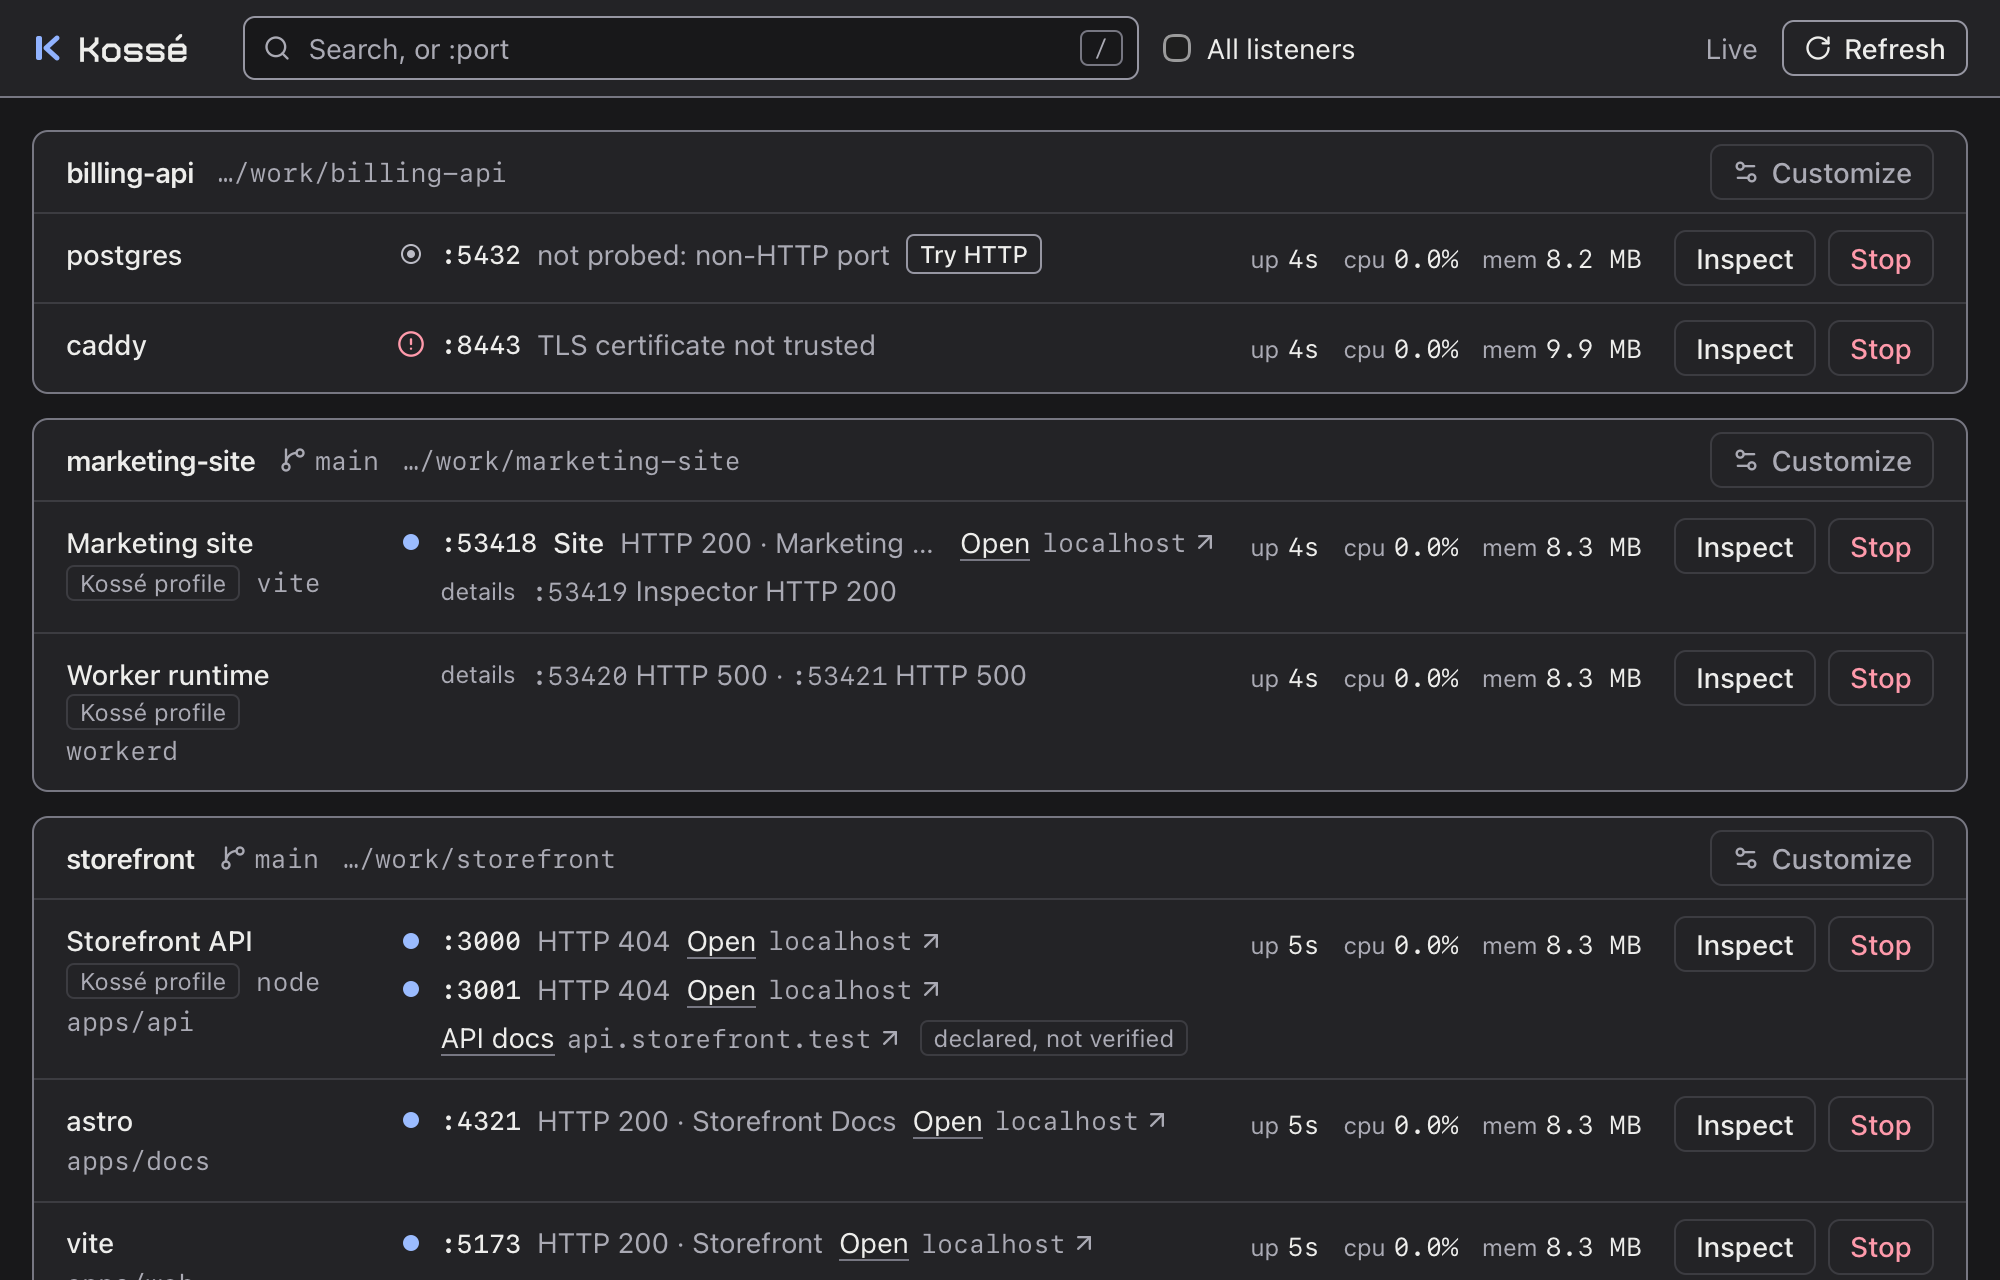
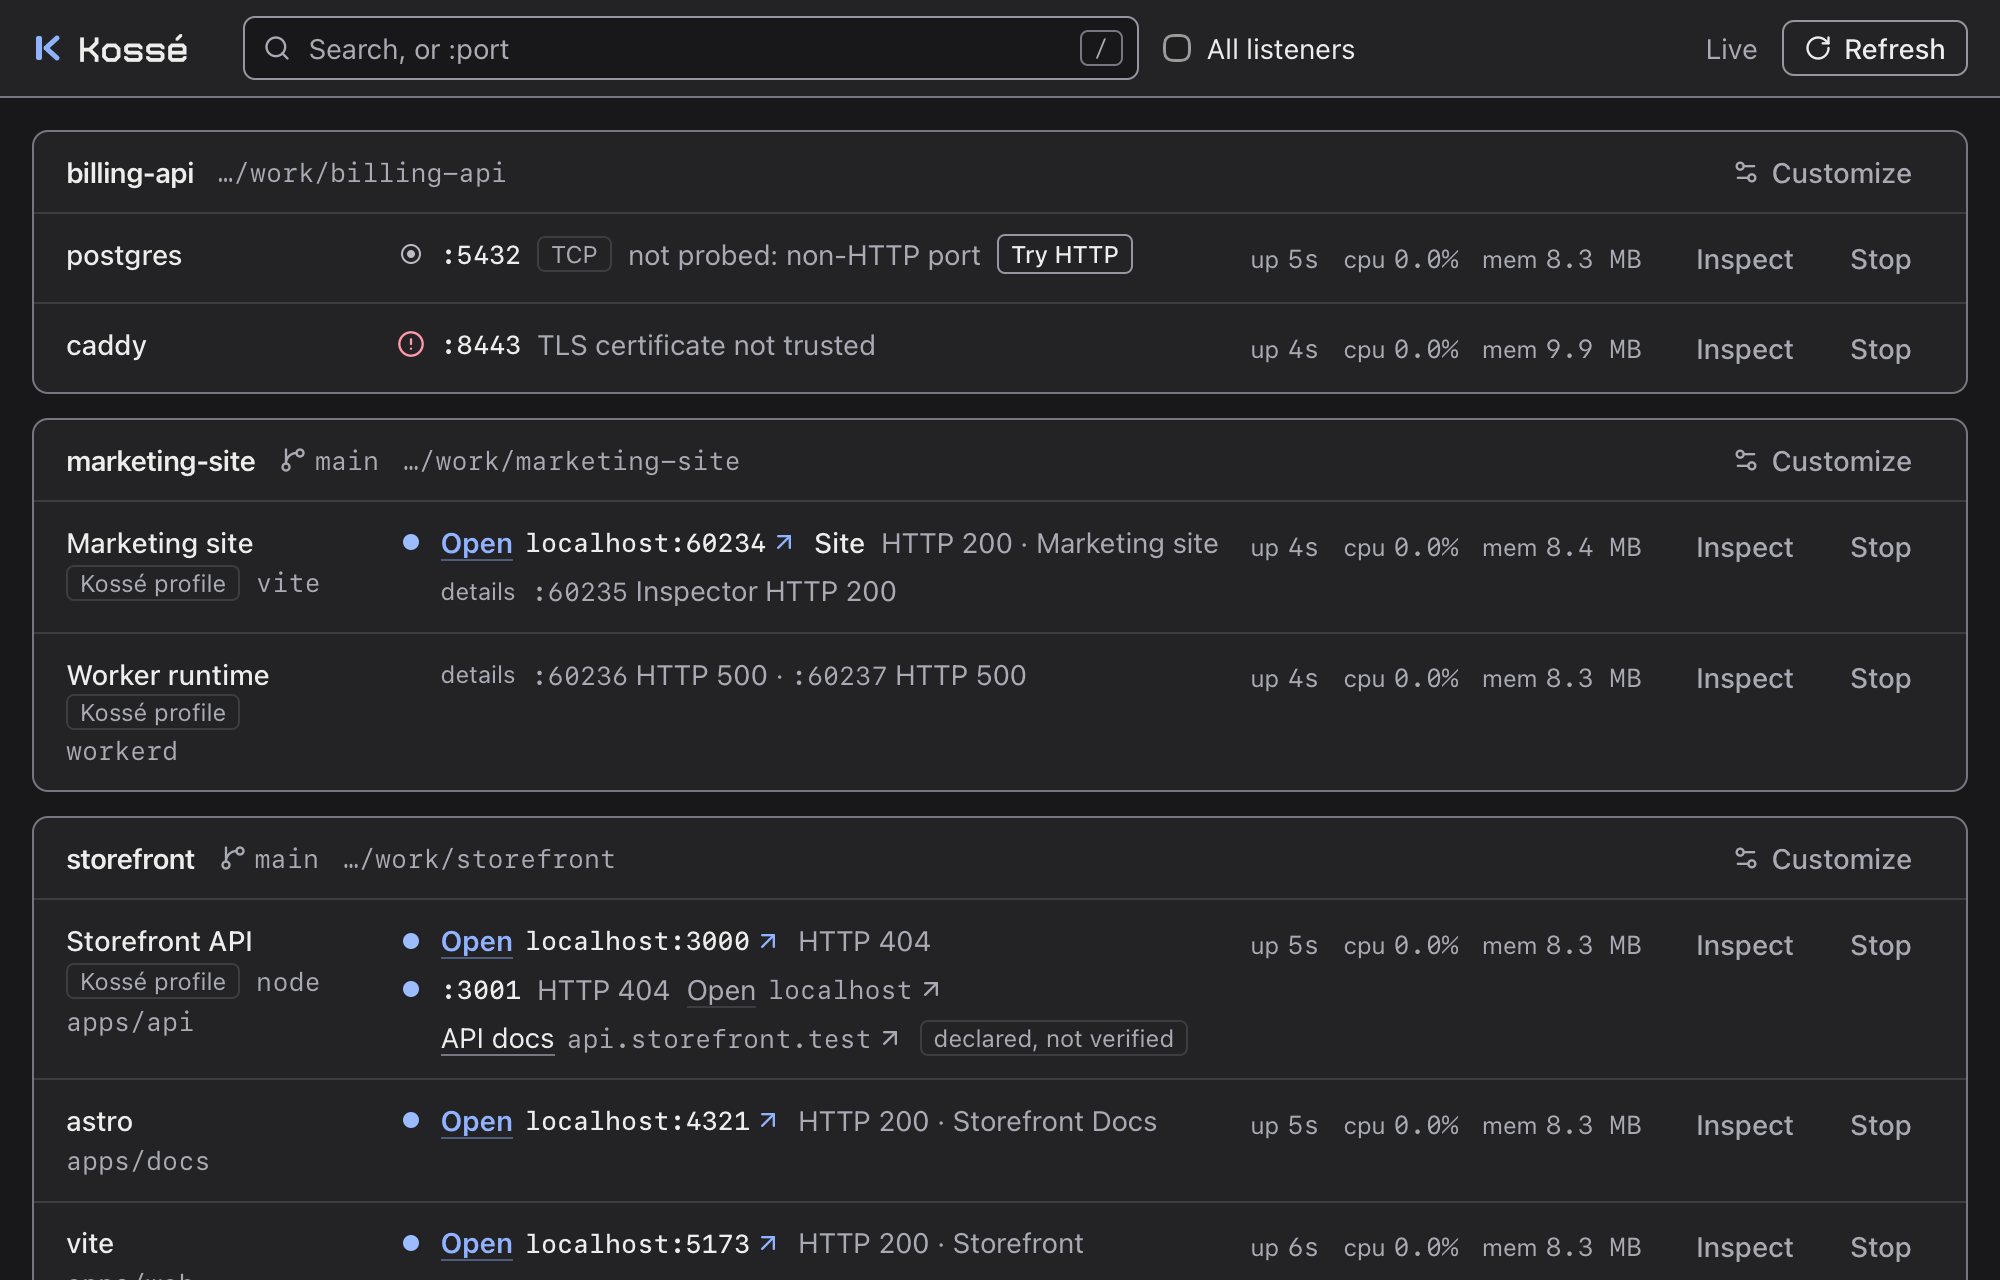
docs: evidence and screenshots for the dashboard hierarchy pass

diff --git a/docs/evidence/ui-hierarchy.md b/docs/evidence/ui-hierarchy.md
@@ -1,0 +1,62 @@
+# UI pass: what to open, what is secondary, what is not web
+
+Recorded 2026-10-30 on macOS, Apple silicon, on branch `dashboard-hierarchy` (cut from `endpoint-roles`, S21). Dashboard-only: no Rust, contract or tray change.
+
+## The problem, from the user's goal
+
+The owner: "I'm having a hard time seeing what is the main url to check vs less important vs database and things like that." The dashboard's second most frequent job (blueprint/product.md, primary job 3) is to open the service you are working on without remembering its port. Before this pass every endpoint line had the same weight: a marker, `:port`, the HTTP result with the page title, then an underlined `Open` after the title, so the link landed at a different x on every line, after text that truncates. A service with three answering ports offered three equal Opens, a declared local link to the same URL offered a fourth, the eye went to the one red icon (an internal port) and to the bordered Inspect / Stop buttons and ink metrics on every row, and a database line looked like a web line that had not been checked.
+
+## Hierarchy
+
+Per service row, three tiers, all from observed facts and declared display tiers only:
+
+1. **The open target.** Among the service's summary endpoints that answered HTTP (the launch targets of `Service::launch_endpoints`, the same set the tray and `kosse url` choose from), one is drawn first and strongest: the accent `Open` label with the full `localhost:<port>` in ink mono and the arrow, at the start of the endpoint column, so it sits at the same x on every row. When several answered, the one that served a page (a response with a title) comes first, then a status below 400, then the lowest port. This is ordering and emphasis only: every answering summary endpoint keeps its own Open, nothing is labelled "main", and the tray and CLI keep their meaning (several answering endpoints remain several Open items, and `kosse url` stays ambiguous).
+2. **Other summary endpoints.** One line each, below the target: marker, `:port`, name, HTTP status without the page title (the title is on the target and in Inspect), a quiet `Open` link when it answered, Try HTTP when allowed. A failure on a summary endpoint keeps the failed marker: it is a launch target.
+3. **Details endpoints** stay on the one muted `details` line (S21), never with a marker, an Open or the failed marker.
+
+The kind cue is a quiet `TCP` tag on an endpoint that is known not to speak HTTP: skipped as a known non-HTTP port or process, or probed and found not HTTP. Every endpoint is TCP (`Endpoint.protocol`), so the tag is a fact; it is shown only where HTTP is ruled out, so it reads as "not web" without naming a guess such as "database". Unchecked or failed endpoints get no tag (unknown stays unknown).
+
+A declared link whose URL equals the URL of an endpoint that already offers Open is not repeated on the row; Inspect lists every declared link with its provenance. Declared links to other URLs stay as before.
+
+Metrics and actions recede: metric values in `ink-muted`, Inspect, Stop and Customize as muted, borderless text at rest (hover brings back the border, hover and keyboard focus bring back Stop's `danger` text). The accent on the row is then only the open target.
+
+No project-level "main URL": no observed fact makes one service of a project its entry point, and the tray has no such item.
+
+Unchanged: the Shape Rule markers, honesty wording (any status is reachable HTTP; failures say what happened), keyboard row focus, the narrow stacked layout, light and dark, reduced motion, `safeLink` for every href (`OutLink`), no inline style.
+
+## What changed
+
+- `web/src/model/endpoints.ts`: `openTarget` (the ranking above). `web/src/model/probe.ts`: `brief` (the result without the page title) and `notHttp` (HTTP ruled out). `web/src/model/links.ts`: `sameLink`.
+- `web/src/components/project-card.tsx`: the target line first, other summary lines quieter, the duplicate declared link folded, `TCP` tag, muted metrics; `link.tsx`: `target` and `quiet` tones; `ui.ts`: borderless `rowAction` / `rowDanger` (also Customize in the card header).
+- `e2e/support/world.ts`: the marketing site's central profile declares `Local site` at the Site endpoint's own URL, so the fold is exercised by Playwright, the window and the screenshots.
+- `web/DESIGN.md`: the row order, the open link tones, the row actions and the fold.
+
+## Tests (each guards a rule)
+
+- `model/endpoints.test.ts`: a 404 on a lower port never outranks the page; a 200 outranks a 500; between equals the lowest port; no target when no summary endpoint answered. `TCP` only where HTTP is ruled out (pending, closed, unattributed and answering endpoints never get it). The brief line drops the page title only.
+- `model/links.test.ts`: `sameLink` folds `http://localhost:3000` into `…:3000/`, never a different path, host spelling (`127.0.0.1`) or a non-HTTP URL.
+- Playwright: of the API's two 404 ports, exactly one `[data-target]`, the lowest, drawn first, and both keep an Open; postgres carries `TCP`, caddy (TLS failure) does not; the site row has one link although its profile declares `Local site` at the same URL, and Inspect still lists `Local site`.
+
+## Commands run
+
+| Command                                                      | Result                                                                                                        |
+| ------------------------------------------------------------ | ------------------------------------------------------------------------------------------------------------- |
+| `bun run app -- start/eval/shot/resize/theme/click/key/stop` | see below                                                                                                     |
+| `bun run --cwd web test`                                     | 52 passed                                                                                                     |
+| `bun run check`                                              | exit 0: fmt, oxlint, clippy, tsc, Vitest 52/52, budget `53.02 kB of 55.00 kB`, nextest 274/274, release build |
+| `bun run test:e2e`                                           | 32 passed, 2 skipped (screenshot spec on Chromium)                                                            |
+| `bun run test:window`                                        | 69 passed, 0 failed (screen unlocked)                                                                         |
+| `bun run screenshots`                                        | regenerated `docs/screenshots/` (fixture data only), looked at all five                                       |
+| `impeccable detect` on the changed components                | no findings                                                                                                   |
+
+## Real window (`bun run app`)
+
+Before and after screenshots were taken at 1180x780 (whole fixture world, and filtered to `marketing-site`, light and dark) and at 560x780 (light and dark); they are not committed because the unfiltered view shows the machine's own listeners. After: each service with an answering summary endpoint leads with the accent `Open localhost:<port>`; the API's second port reads `:3001 HTTP 404 Open localhost` in muted text; the site row shows no separate `Local site` line; postgres and the queue worker carry `TCP`; Inspect / Stop / Customize are muted text until hovered. At 560 px: no horizontal scroll (`scrollWidth 560 = innerWidth 560`), the row stacks and the actions sit on the column edge (a fix made after the first narrow screenshot showed them inset by the borderless padding).
+
+Real AppKit clicks: Open on the marketing site's target handed `http://localhost:<site port>/` to the captured opener and the window stayed on `/`; Inspect opened the sheet with both endpoints and their tiers; Stop on postgres opened the confirmation naming PID and `:5432`, Cancel closed it and the row stayed; Customize opened the dialog, Escape closed it. Tab from Inspect to Stop: Stop is `:focus-visible` with the solid focus ring and its `danger` colour.
+
+## Unverified
+
+- Hover colours of the row actions were read from the classes, not seen: `bun run app -- click` does not hover.
+- The owner's own Wrangler stack (not a fixture) was not probed by the debug app (`outsideTestScope`), so its after-state is inferred from the fixture equivalents: a page on one port outranks a 404 or 500 on another.
+- The tray was not touched and not re-checked on the desktop; its Open items are unchanged in code.
